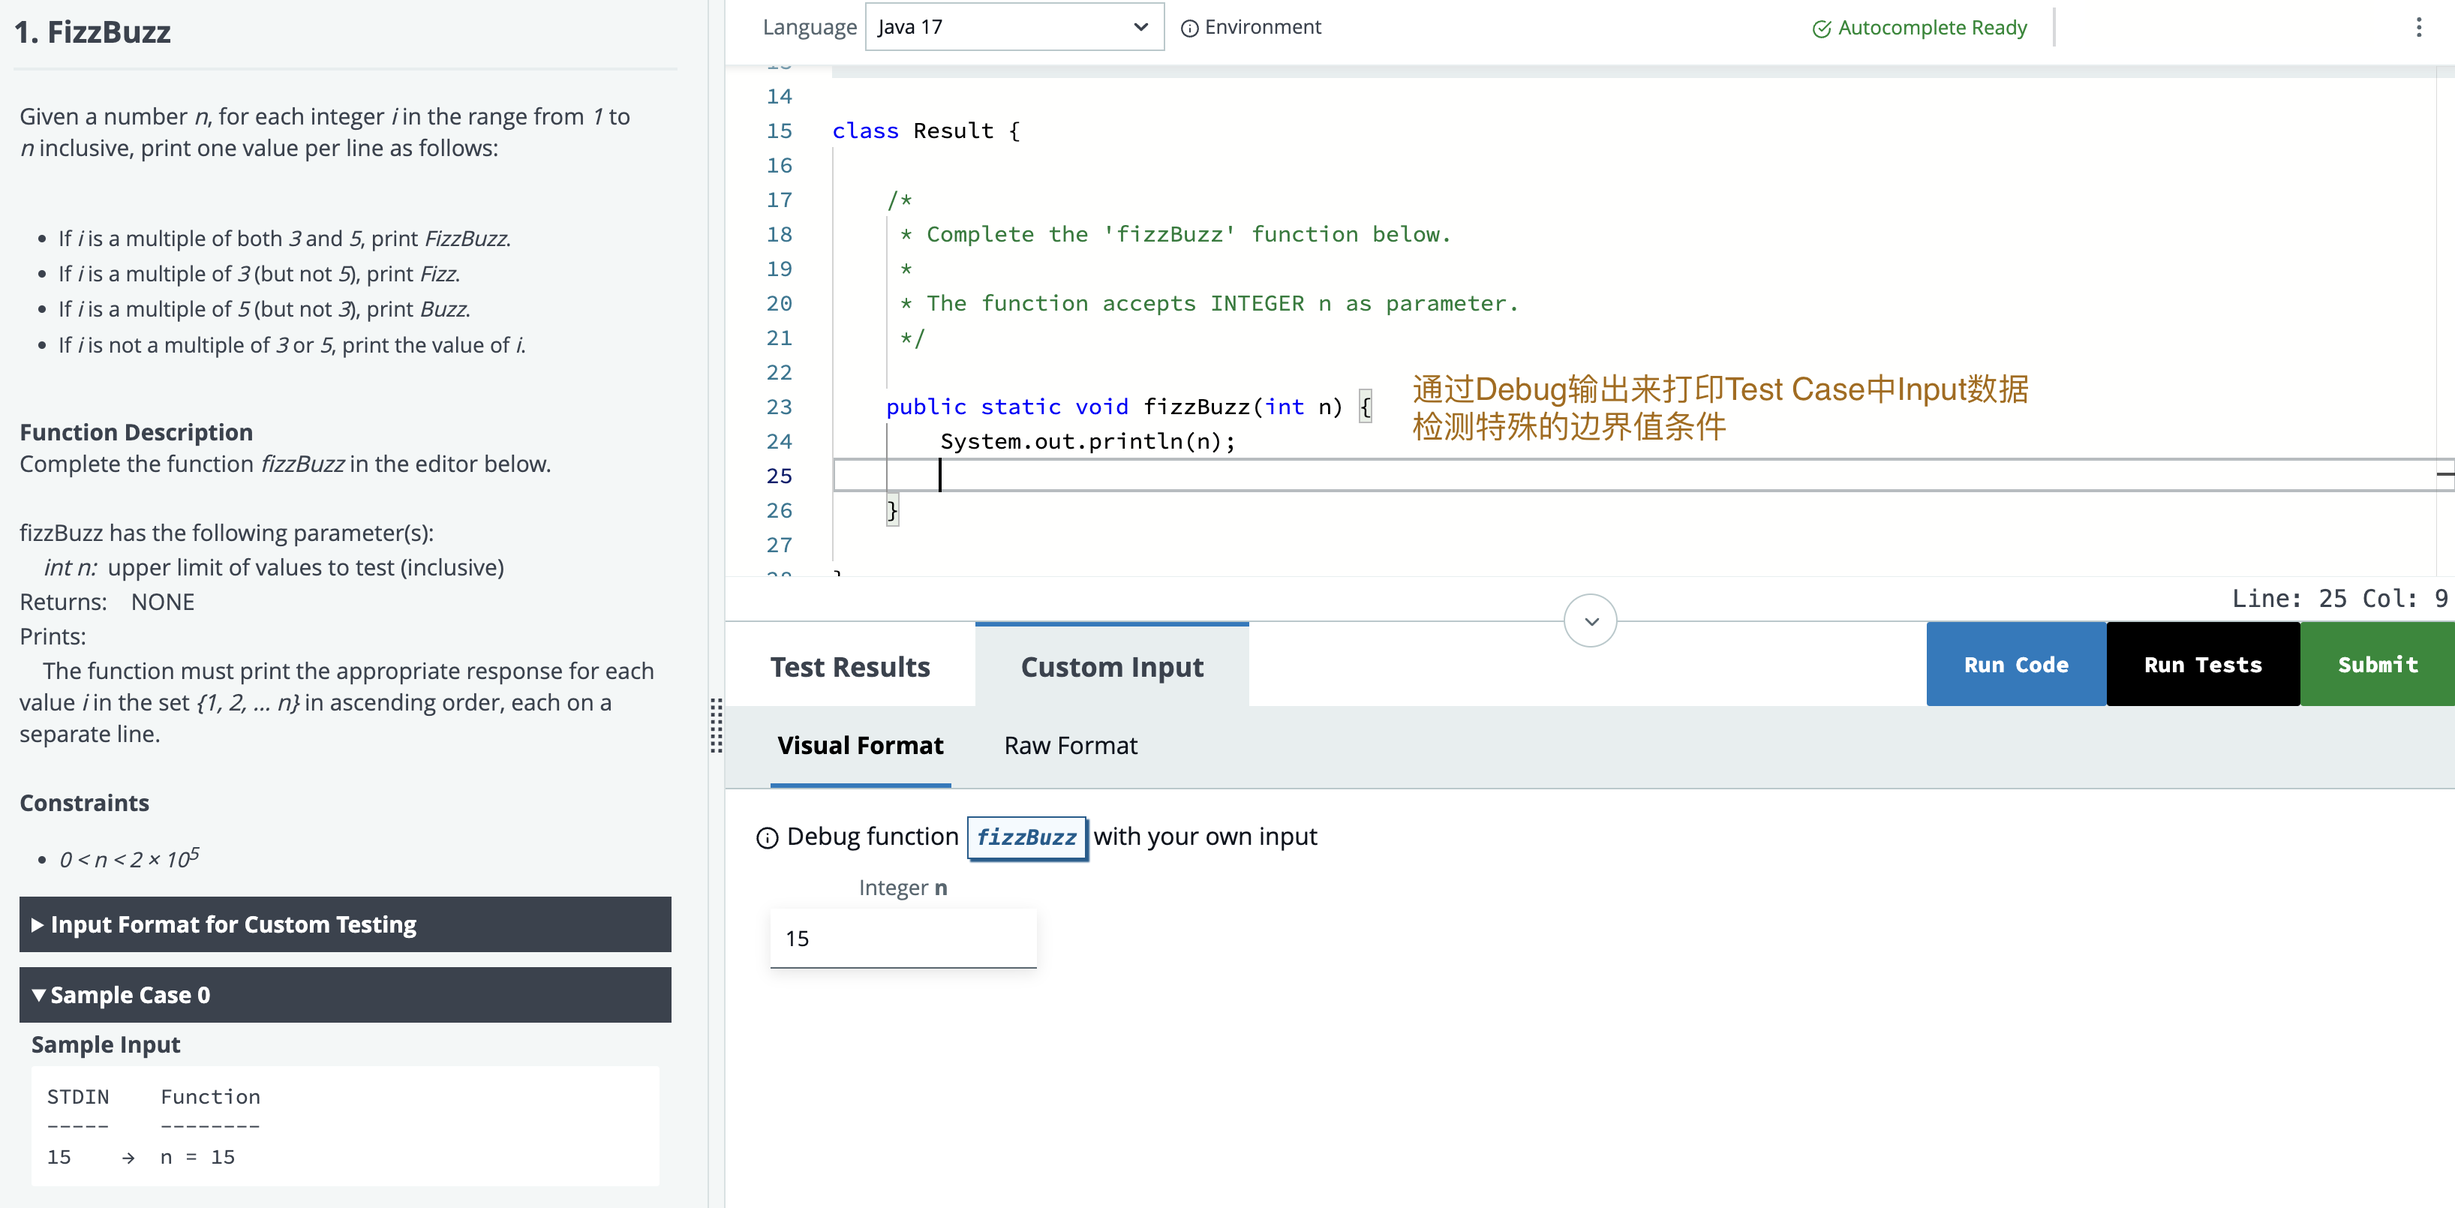
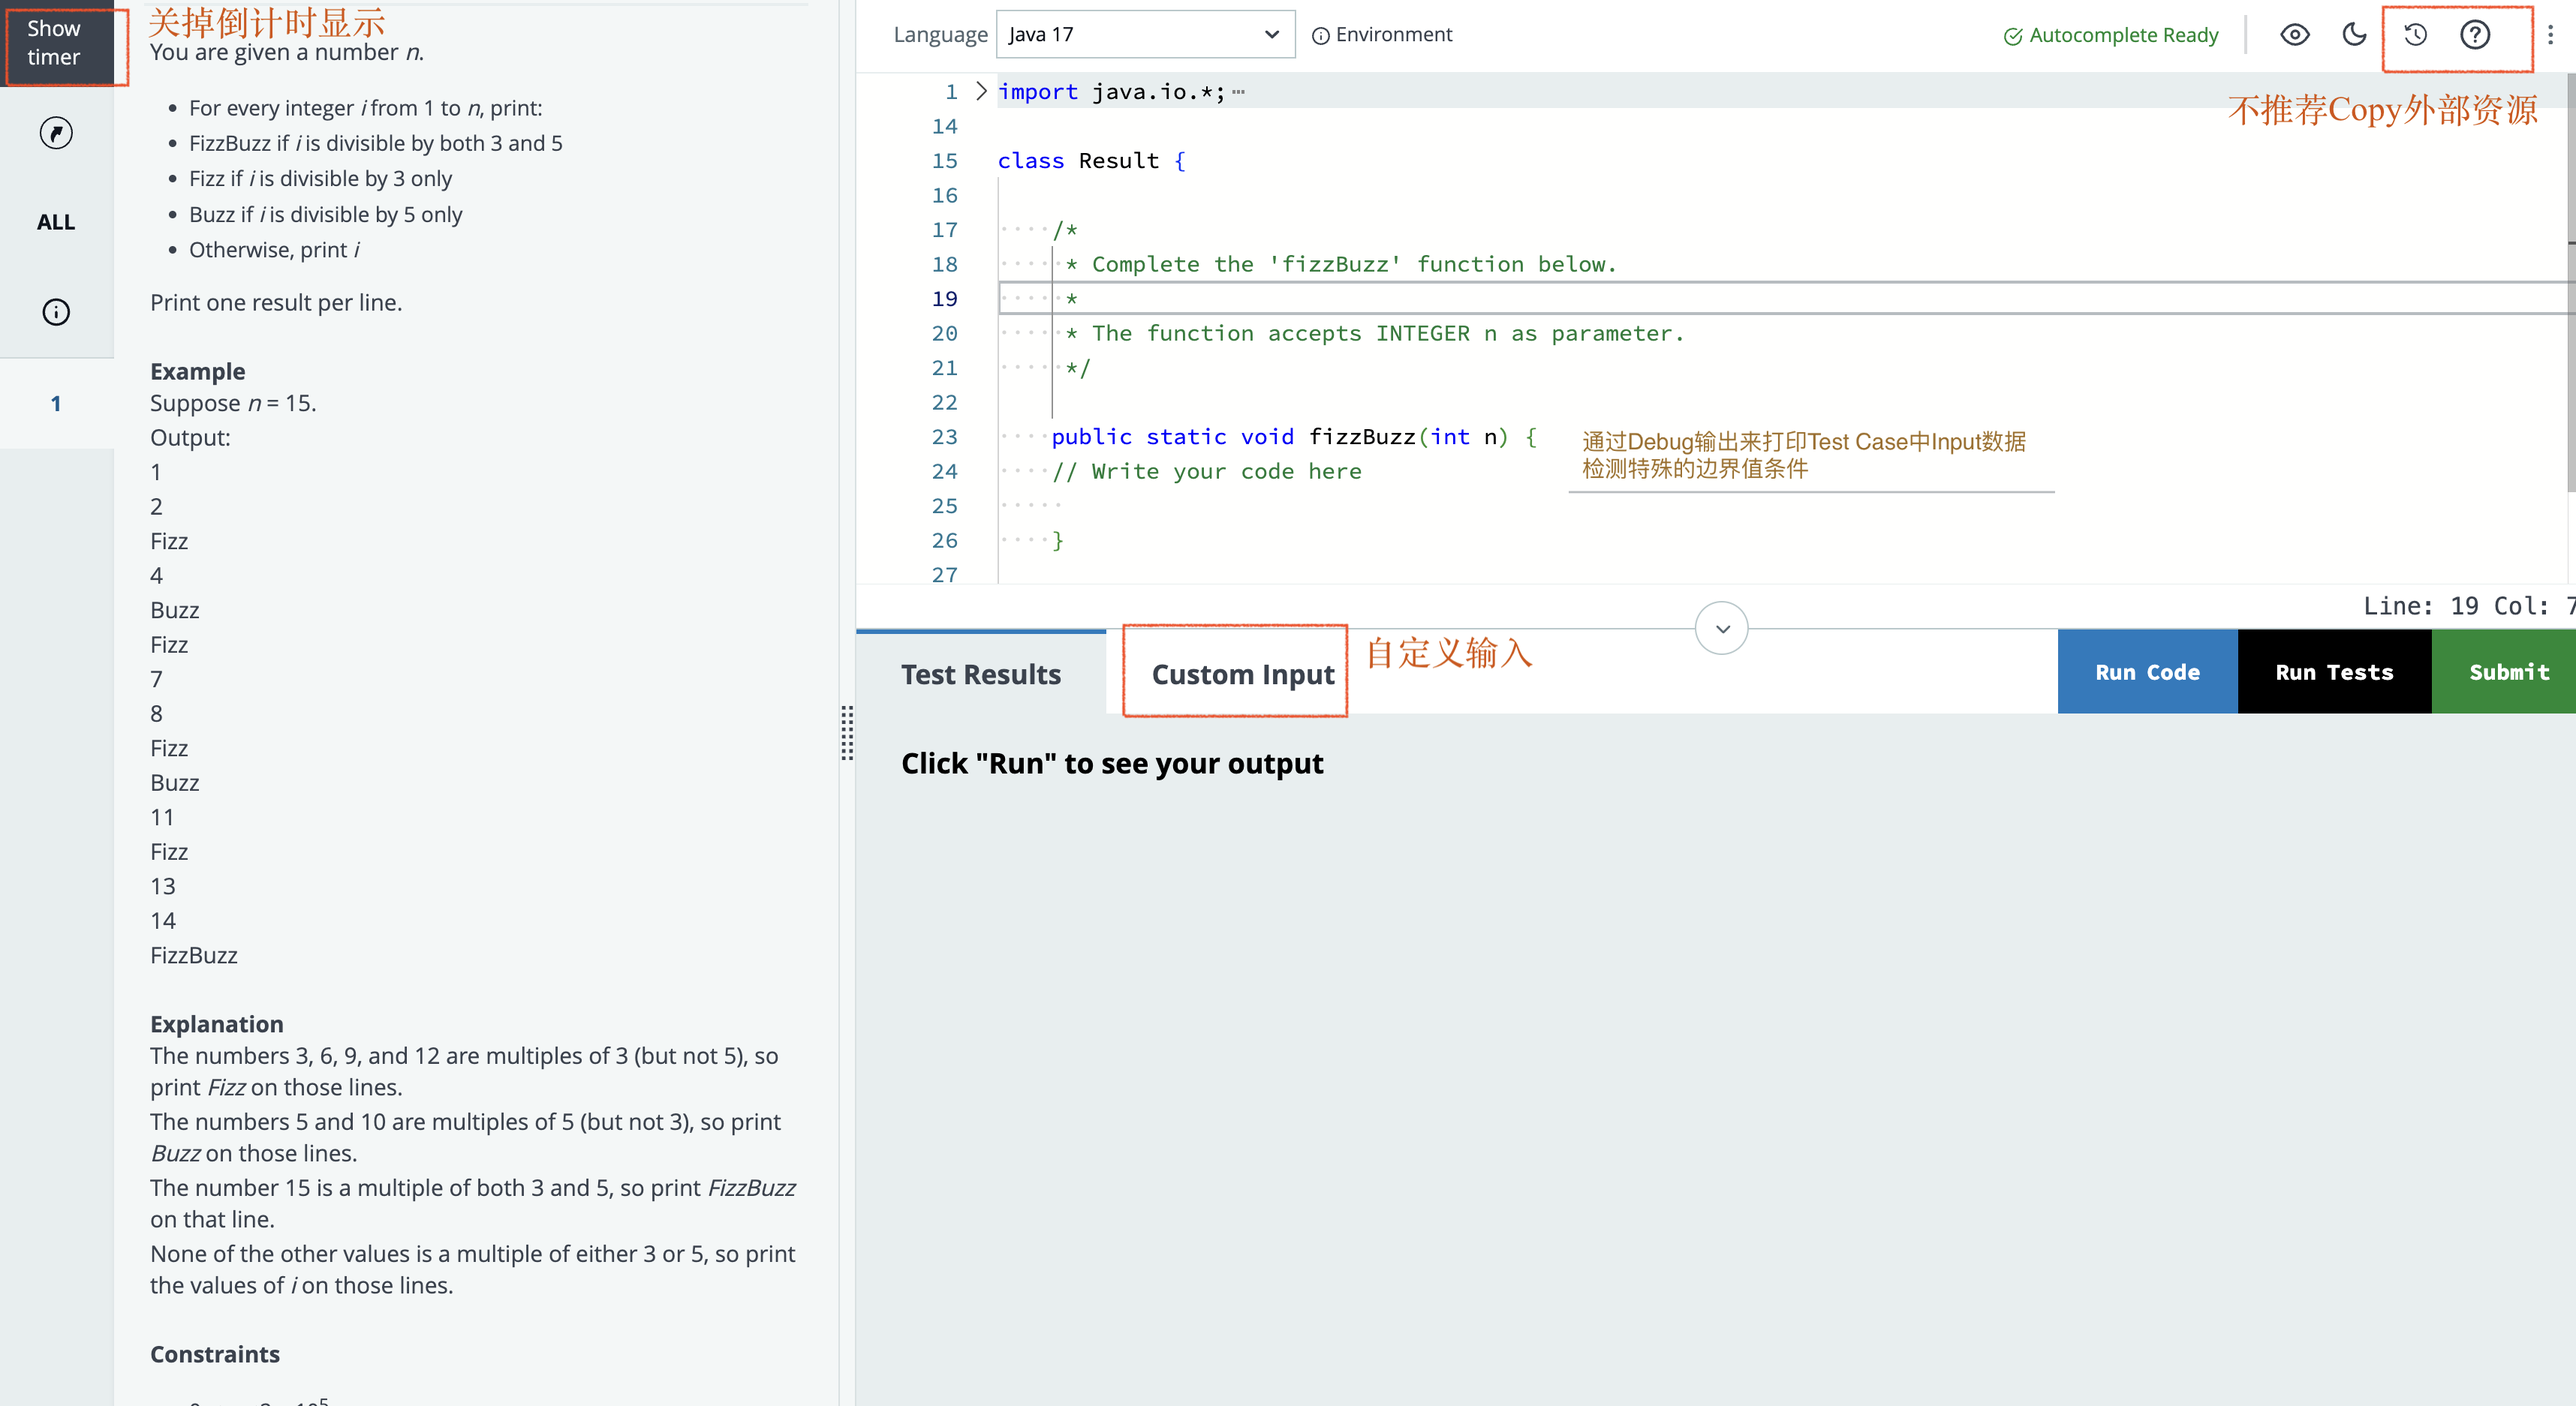
refresh project

diff --git a/effective-leetcode/src/main/java/todoHard/skipline_problem/TheSkylineProblem.java b/effective-leetcode/src/main/java/todoHard/skipline_problem/TheSkylineProblem.java
@@ -1,0 +1,65 @@
+package todoHard.skipline_problem;
+
+import java.util.*;
+
+// The Skyline Problem
+// Given in the array buildings where buildings[i] = [lefti, righti, heighti]:
+// - lefti is the x coordinate of the left edge of the ith building.
+// - righti is the x coordinate of the right edge of the ith building.
+// - heighti is the height of the ith building.
+// all buildings are perfect rectangles grounded on an absolutely flat surface at height 0.
+//
+// 1 <= buildings.length <= 10^4
+// 0 <= lefti < righti <= 2^31 - 1
+// 1 <= heighti <= 2^31 - 1
+// buildings is sorted by lefti in non-decreasing order.
+public class TheSkylineProblem {
+
+    // TODO. 将每栋建筑的Border边缘扣出来，根据树立的Border来判断高度变化
+    // buildings = [[0,2,3],[2,5,3]]
+    // Output: [[0,3],[5,0]]
+    //
+    // buildings = [[2,9,10],[3,7,15],[5,12,12],[15,20,10],[19,24,8]]
+    // Output: [[2,10],[3,15],[7,12],[12,0],[15,10],[20,8],[24,0]]
+    //
+    //
+    public List<List<Integer>> getSkyline(int[][] buildings) {
+        // This array as bars representing borders of buildings
+        int[][] heights = new int[2 * buildings.length][2];
+        for (int i = 0; i < buildings.length; i++) {
+            heights[i * 2] = new int[]{ buildings[i][0], -buildings[i][2] };    // left, -height
+            heights[i * 2 + 1] = new int[]{ buildings[i][1], buildings[i][2] }; // right, height
+        }
+
+        // Sort the bars based on position, use height as tie-breaker
+        Arrays.sort(heights, (a, b) -> a[0] != b[0] ? a[0] - b[0] : a[1] - b[1]);
+
+        // TODO. priority queue is removal of given item other than root can be costly O(n)
+        // height -> count
+        var map = new TreeMap<Integer, Integer>(Comparator.reverseOrder());
+        map.put(0, 1);
+
+        List<List<Integer>> res = new ArrayList<>();
+        int prev = 0;
+        for (int[] height : heights) {
+            // -ve height for left bar meaning validity of this building is starting, add it
+            if (height[1] < 0) {
+                map.put(-height[1], map.getOrDefault(-height[1], 0) + 1);
+            } else {
+                // +ve height for right bar meaning end of validity, remove it
+                map.put(height[1], map.get(height[1]) - 1);
+                // could have been costly for priority queue
+                if (map.get(height[1]) == 0) {
+                    map.remove(height[1]);
+                }
+            }
+
+            // max height in curr position that is diff from prev, add to skyline
+            if (map.firstKey() != prev) {
+                prev = map.firstKey();
+                res.add(List.of(height[0], prev));
+            }
+        }
+        return res;
+    }
+}

diff --git a/effective-leetcode/src/main/java/todoHard/subarrays_sum_total/SumSubarrayMultiMin.java b/effective-leetcode/src/main/java/todoHard/subarrays_sum_total/SumSubarrayMultiMin.java
@@ -1,0 +1,28 @@
+package todoHard.subarrays_sum_total;
+
+// Sum of Total Strength of Wizards
+// Since the answer may be very large, return it modulo 10^9 + 7.
+//
+// 1 <= strength.length <= 10^5
+// 1 <= strength[i] <= 10^9
+//
+// strength = [1,3,1,2] -> 44
+// The following are all the contiguous groups of wizards:
+// - [1] total strength of min([1]) * sum([1]) = 1 * 1 = 1
+// - [3] total strength of min([3]) * sum([3]) = 3 * 3 = 9
+// - [1] total strength of min([1]) * sum([1]) = 1 * 1 = 1
+// - [2] total strength of min([2]) * sum([2]) = 2 * 2 = 4
+// - [1,3] total strength of min([1,3]) * sum([1,3]) = 1 * 4 = 4
+// - [3,1] total strength of min([3,1]) * sum([3,1]) = 1 * 4 = 4
+// - [1,2] total strength of min([1,2]) * sum([1,2]) = 1 * 3 = 3
+// - [1,3,1] total strength of min([1,3,1]) * sum([1,3,1]) = 1 * 5 = 5
+// - [3,1,2] total strength of min([3,1,2]) * sum([3,1,2]) = 1 * 6 = 6
+// - [1,3,1,2] total strength of min([1,3,1,2]) * sum([1,3,1,2]) = 1 * 7 = 7
+// The sum total strengths 1 + 9 + 1 + 4 + 4 + 4 + 3 + 5 + 6 + 7 = 44.
+public class SumSubarrayMultiMin {
+
+    public int totalStrength(int[] strength) {
+
+        return 0;
+    }
+}

diff --git a/effective-leetcode/src/main/java/todoHard/rectangle_questions/MaximalRectangle.java b/effective-leetcode/src/main/java/todoHard/rectangle_questions/MaximalRectangle.java
@@ -1,0 +1,27 @@
+package todoHard.rectangle_questions;
+
+// Maximal Rectangle
+// Given a rows x cols binary matrix filled with 0's and 1's,
+// find the largest rectangle containing only 1's and return its area.
+//
+// rows == matrix.length
+// cols == matrix[i].length
+// 1 <= row, cols <= 200
+// matrix[i][j] is '0' or '1'.
+public class MaximalRectangle {
+
+    // TODO.
+    // matrix = [["0"]] -> 0
+    // matrix = [["1"]] -> 1
+    // matrix = [ -> 6
+    // ["1","0","1","0","0"],
+    // ["1","0","1","1","1"],
+    // ["1","1","1","1","1"],
+    // ["1","0","0","1","0"]]
+    //
+    //
+    public int maximalRectangle(char[][] matrix) {
+
+        return 0;
+    }
+}

diff --git a/effective-leetcode/src/main/java/todoHard/rectangle_questions/LargestRectangleHistogram.java b/effective-leetcode/src/main/java/todoHard/rectangle_questions/LargestRectangleHistogram.java
@@ -1,0 +1,5 @@
+package todoHard.rectangle_questions;
+
+// Largest Rectangle in Histogram
+public class LargestRectangleHistogram {
+}

diff --git a/effective-leetcode/src/main/java/amazonTop50/LRU_cache/LRUAlgorithme.java b/effective-leetcode/src/main/java/amazonTop50/LRU_cache/LRUAlgorithme.java
@@ -1,4 +1,4 @@
-package basic.LRU;
+package amazonTop50.LRU_cache;
 
 import java.util.HashMap;
 import java.util.Map;
